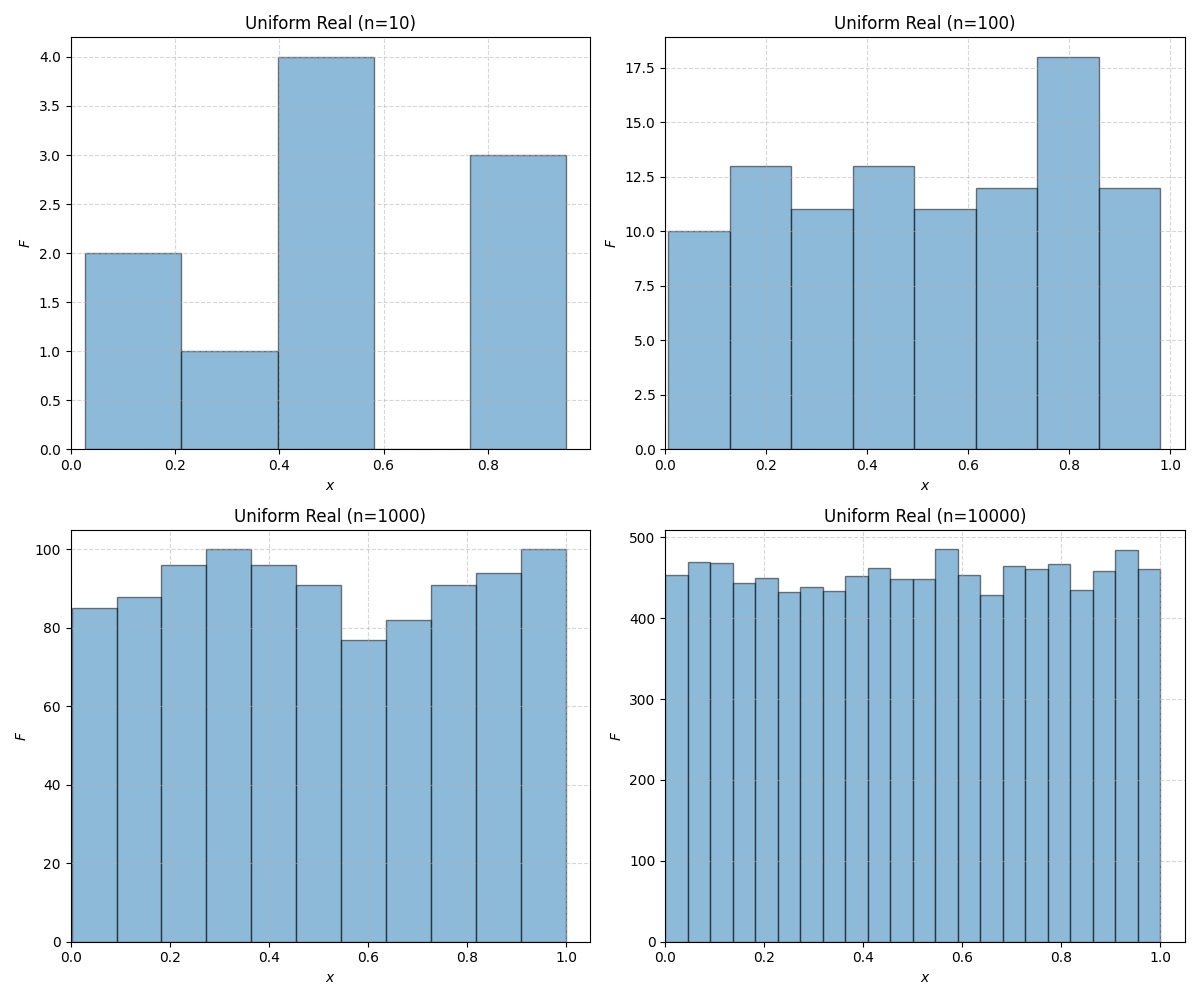
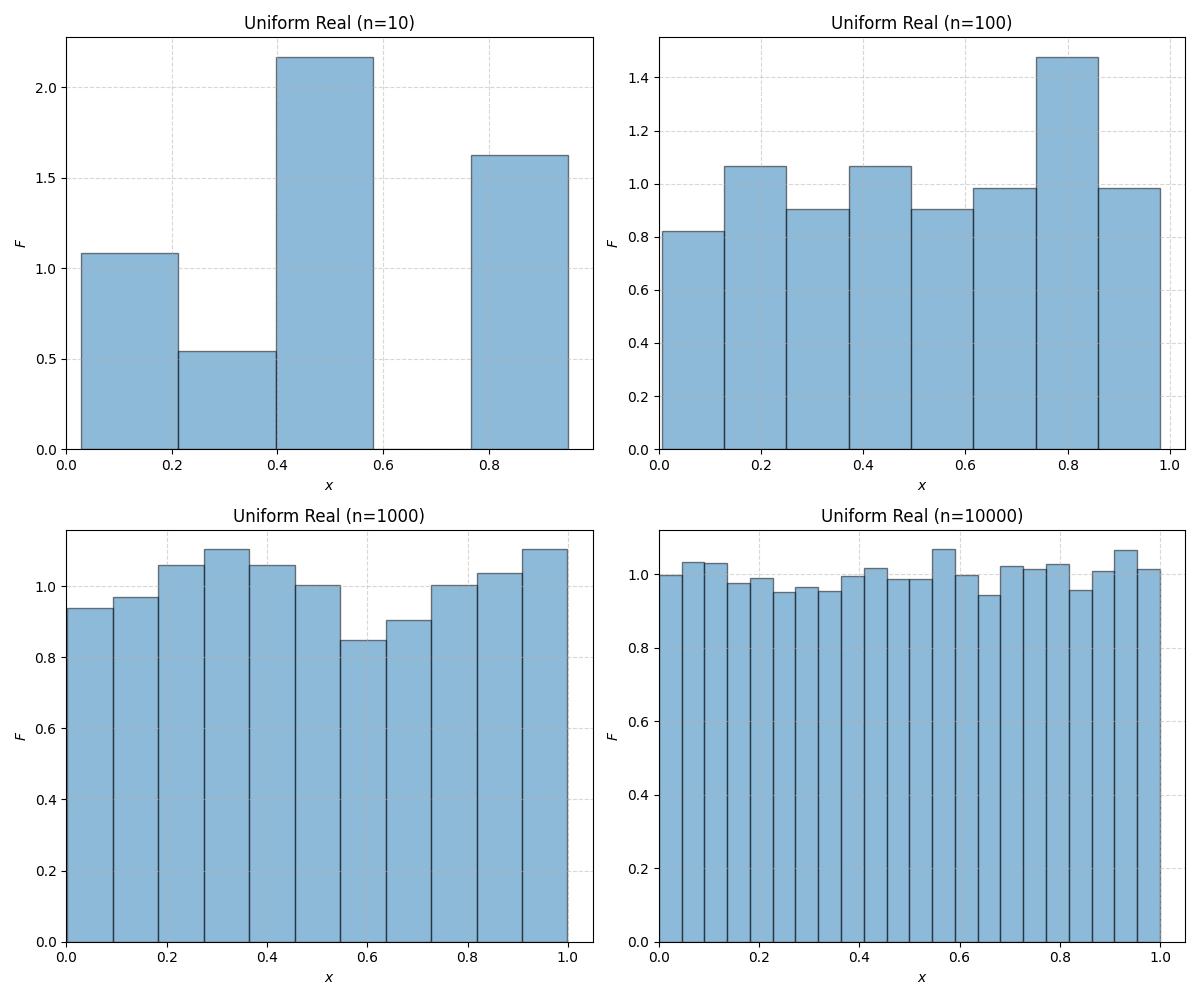
Add density=True for continuous uniform histogram normalization, update picture accordingly

diff --git a/TP01/tp_01.py b/TP01/tp_01.py
@@ -22,9 +22,9 @@ def init_axes():
 
 
 def draw_on_axe(
-    axe, x, n, title, bins="auto", use_int_x_axes=False, start_at_zero=True
+    axe, x, n, title, bins="auto", use_int_x_axes=False, start_at_zero=True, density=False
 ):
-    axe.hist(x, bins=bins, edgecolor="black", alpha=0.5)
+    axe.hist(x, bins=bins, edgecolor="black", alpha=0.5, density=density)
     axe.set_title(f"{title} (n={n})")
     axe.set_xlabel("$x$")
     axe.set_ylabel("$F$")
@@ -72,7 +72,7 @@ def uniform_real():
         rng = np.random.default_rng(seed=SEED)
         # By default, rng.uniform return values in range [0.0;1.0] (include)
         x = rng.uniform(size=n)
-        draw_on_axe(axes[i], x, n, "Uniform Real")
+        draw_on_axe(axes[i], x, n, "Uniform Real", density=True)
         theoretical = (0.0 + 1.0) / 2
         real = np.mean(x)
         error = real - theoretical
